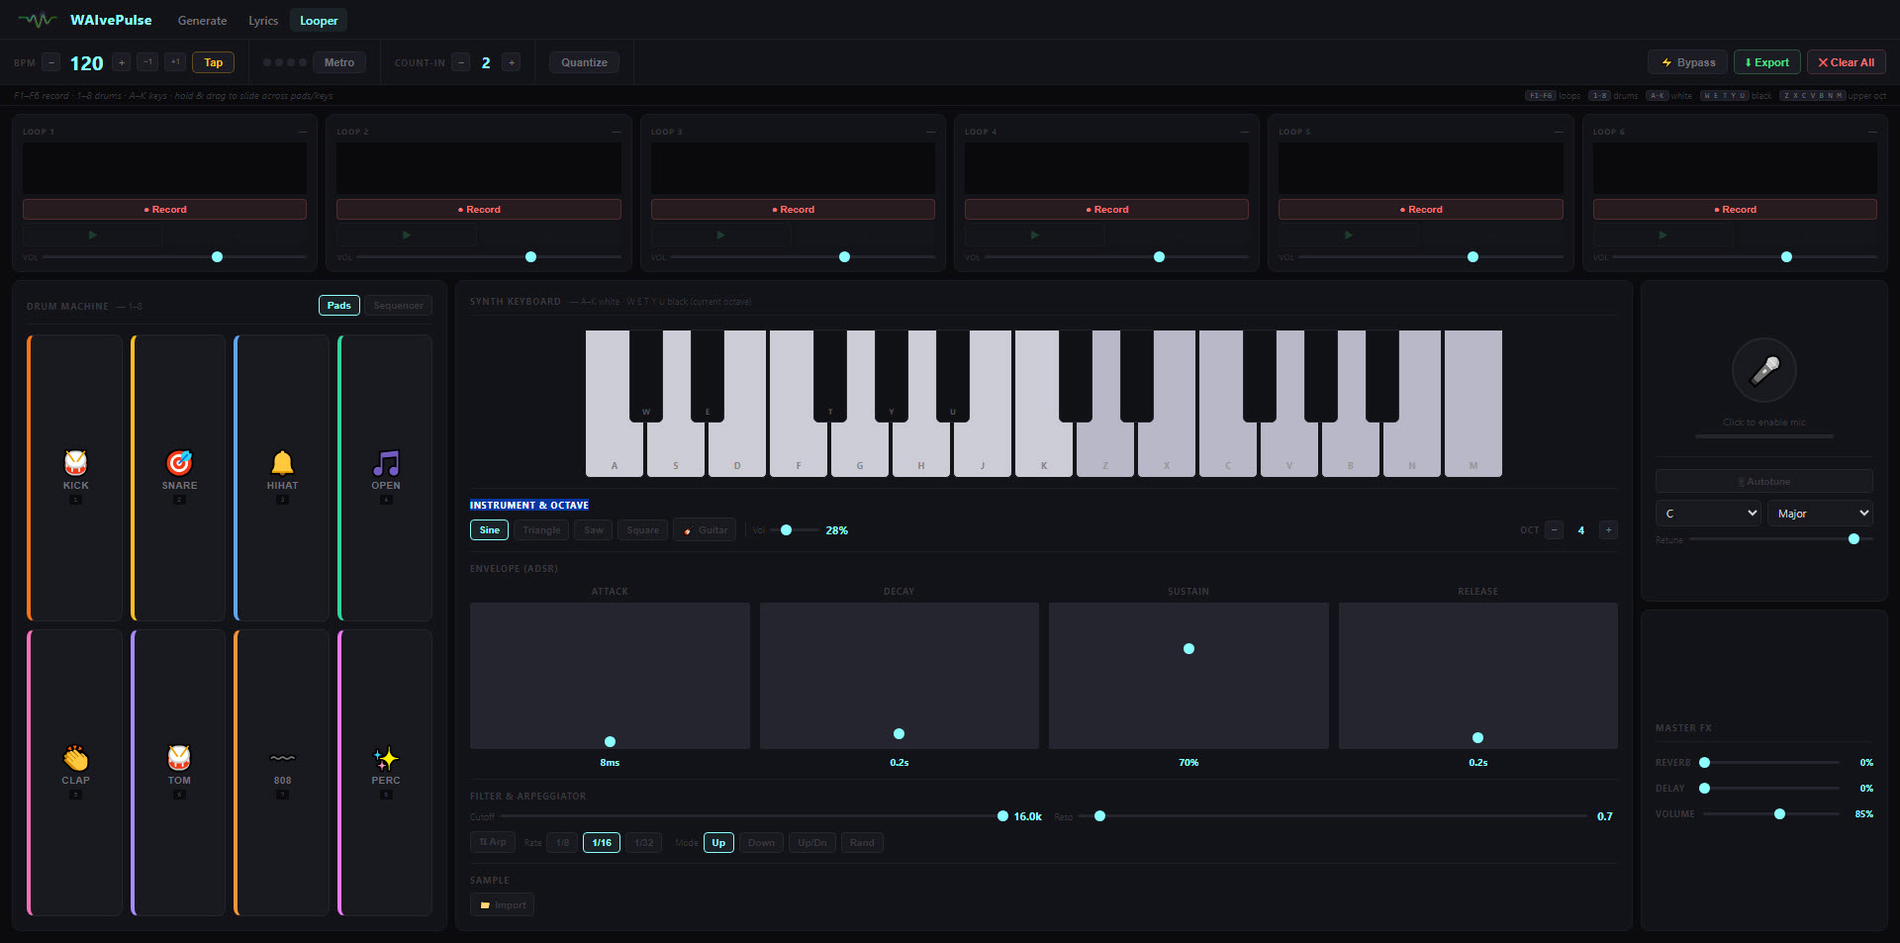
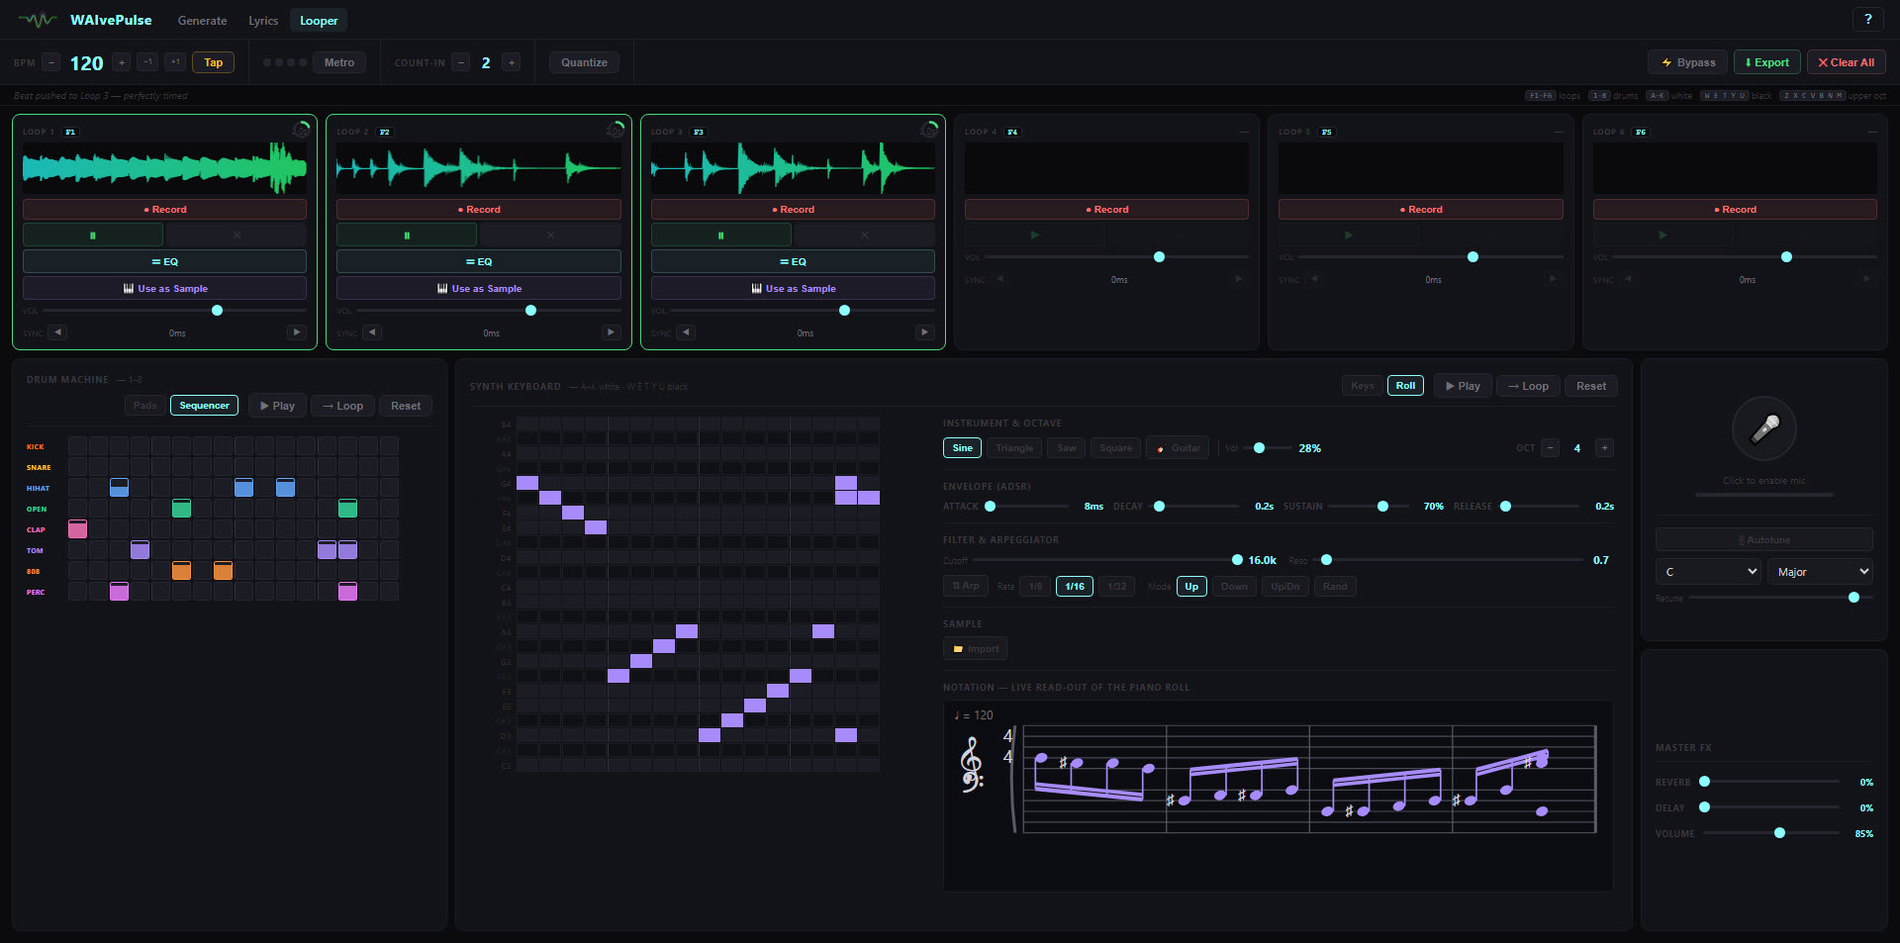
added sheetmusic bars

diff --git a/scripts/sheet_preview.html b/scripts/sheet_preview.html
@@ -1,0 +1,225 @@
+<!doctype html>
+<!--
+  Standalone verification harness for the Looper "Notation" panel.
+  Mirrors the exact rendering logic in frontend/js/looper/pianoseq.js (renderSheet)
+  so you can eyeball notation correctness on controlled examples without the server.
+  Open this file directly in a browser.  If the staff here looks right, the app will too.
+-->
+<html lang="en">
+<head>
+<meta charset="utf-8">
+<title>WAIvePulse — sheet music preview</title>
+<style>
+  body{background:#0b0b0e;color:#d2d2d8;font-family:system-ui,Segoe UI,sans-serif;margin:24px}
+  h1{font-size:15px;font-weight:700;letter-spacing:.04em}
+  .case{margin:14px 0 22px}
+  .case h2{font-size:12px;color:#a0a0aa;font-weight:600;margin:0 0 4px}
+  .sheet-wrap{background:#0c0c11;border:1px solid #1c1c24;border-radius:6px;padding:6px 8px;max-width:620px}
+  #x svg, .sheet-wrap svg{width:100%;height:auto;display:block}
+  /* copied verbatim from css/looper.css */
+  .sm-line{stroke:#4a4a58;stroke-width:1}
+  .sm-bar{stroke:#5a5a6a;stroke-width:1}
+  .sm-bar.end{stroke-width:2.5}
+  .sm-brace{stroke:#5a5a6a;stroke-width:2.5;fill:none}
+  .sm-ledger{stroke:#6a6a7a;stroke-width:1.2}
+  .sm-note{fill:#a78bfa}
+  .sm-note.open{fill:none;stroke:#a78bfa;stroke-width:1.7}
+  .sm-stem{stroke:#a78bfa;stroke-width:1.4}
+  .sm-beam{stroke:#a78bfa;stroke-width:2.8;stroke-linecap:butt}
+  .sm-beam2{stroke:#a78bfa;stroke-width:2.4;stroke-linecap:butt}
+  .sm-flag{stroke:#a78bfa;stroke-width:1.7;fill:none}
+  .sm-acc{fill:#cfd2dc;font-size:15px;font-family:"Segoe UI Symbol",serif}
+  .sm-clef{fill:#cfd2dc;font-family:"Segoe UI Symbol","Segoe UI Historic",Symbola,serif}
+  .sm-text{fill:#707078;font-size:10px}
+</style>
+</head>
+<body>
+<h1>WAIvePulse — Notation render check</h1>
+<div id="cases"></div>
+
+<script type="module">
+// ── logic mirrored from frontend/js/looper/pianoseq.js ────────────────────────
+const STEPS = 16, ROWS = 24, LOW_MIDI = 48;
+const SM = { topY: 16, hg: 4.5, leftPad: 60, colW: 30 };
+const PC_LETTER = [0, 0, 1, 1, 2, 3, 3, 4, 4, 5, 5, 6];
+const PC_SHARP  = [0, 1, 0, 1, 0, 0, 1, 0, 1, 0, 1, 0];
+const diaOf   = m => (Math.floor(m / 12) - 1) * 7 + PC_LETTER[m % 12];
+const isSharp = m => PC_SHARP[m % 12] === 1;
+const smY     = dia => SM.topY + (38 - dia) * SM.hg;
+const PR = [];
+for (let r = 0; r < ROWS; r++) PR.push({ midi: LOW_MIDI + (ROWS - 1 - r) });
+
+function pseqRuns(pat) {
+  const runs = [];
+  for (let row = 0; row < ROWS; row++) {
+    let s = 0;
+    while (s < STEPS) {
+      if (!pat[row][s]) { s++; continue; }
+      let len = 1;
+      while (s + len < STEPS && pat[row][s + len]) len++;
+      const midi = PR[row].midi;
+      runs.push({ midi, dia: diaOf(midi), sharp: isSharp(midi), start: s, len });
+      s += len;
+    }
+  }
+  return runs;
+}
+const DUR_TABLE = [
+  { n: 16, open: true,  stem: false, beams: 0, dot: false },
+  { n: 12, open: true,  stem: true,  beams: 0, dot: true  },
+  { n: 8,  open: true,  stem: true,  beams: 0, dot: false },
+  { n: 6,  open: false, stem: true,  beams: 0, dot: true  },
+  { n: 4,  open: false, stem: true,  beams: 0, dot: false },
+  { n: 3,  open: false, stem: true,  beams: 1, dot: true  },
+  { n: 2,  open: false, stem: true,  beams: 1, dot: false },
+  { n: 1,  open: false, stem: true,  beams: 2, dot: false },
+];
+function durSpec(len) {
+  let best = DUR_TABLE[0], bd = Infinity;
+  for (const d of DUR_TABLE) { const diff = Math.abs(d.n - len); if (diff < bd) { bd = diff; best = d; } }
+  return best;
+}
+
+function buildSVG(pat, bpm) {
+  const x0 = SM.leftPad, xN = SM.leftPad + SM.colW * STEPS, p = [];
+  for (const d of [30, 32, 34, 36, 38, 18, 20, 22, 24, 26])
+    p.push(`<line class="sm-line" x1="${x0}" y1="${smY(d)}" x2="${xN}" y2="${smY(d)}"/>`);
+  p.push(`<path class="sm-brace" d="M${x0 - 7} ${smY(38)} q-6 ${(smY(18) - smY(38)) / 2} 0 ${smY(18) - smY(38)}"/>`);
+  for (let b = 0; b <= 4; b++) {
+    const x = x0 + b * 4 * SM.colW;
+    p.push(`<line class="sm-bar${b === 4 ? ' end' : ''}" x1="${x}" y1="${smY(38)}" x2="${x}" y2="${smY(18)}"/>`);
+  }
+  p.push(`<text class="sm-clef" x="6" y="${smY(30) + 2}" font-size="36">𝄞</text>`);
+  p.push(`<text class="sm-clef" x="8" y="${smY(20)}" font-size="28">𝄢</text>`);
+  p.push(`<text class="sm-text" x="2" y="11">♩ = ${bpm}</text>`);
+  p.push(`<text class="sm-clef" x="${x0 - 17}" y="${smY(35)}" font-size="15">4</text>`);
+  p.push(`<text class="sm-clef" x="${x0 - 17}" y="${smY(31)}" font-size="15">4</text>`);
+
+  const STEM = 26;
+  const noteX = step => x0 + step * SM.colW + SM.colW / 2;
+  const down  = dia => dia >= 28 ? dia >= 34 : dia >= 22;
+  const runs  = pseqRuns(pat);
+
+  for (const n of runs) {
+    const d = durSpec(n.len);
+    if (d.beams >= 1 || !d.stem) continue;
+    const y = smY(n.dia), x = noteX(n.start), dn = down(n.dia), sx = x + (dn ? -5 : 5);
+    p.push(`<line class="sm-stem" x1="${sx}" y1="${y}" x2="${sx}" y2="${y + (dn ? STEM : -STEM)}"/>`);
+  }
+
+  const groups = {};
+  for (const n of runs) {
+    if (durSpec(n.len).beams < 1) continue;
+    const key = (n.dia >= 28 ? 'T' : 'B') + Math.floor(n.start / 4);
+    const g = (groups[key] = groups[key] || {});
+    (g[n.start] = g[n.start] || []).push(n);
+  }
+  for (const key in groups) {
+    const stepMap = groups[key];
+    const steps = Object.keys(stepMap).map(Number).sort((a, b) => a - b);
+    let sum = 0, cnt = 0, treb = 0;
+    for (const s of steps) for (const n of stepMap[s]) { sum += n.dia; cnt++; if (n.dia >= 28) treb++; }
+    const midLine = treb >= cnt - treb ? 34 : 22;
+    const dn = (sum / cnt) >= midLine, dir = dn ? 1 : -1;
+    const ext = {}, extY = {};
+    for (const s of steps) {
+      const dias = stepMap[s].map(n => n.dia);
+      ext[s]  = dn ? Math.min(...dias) : Math.max(...dias);
+      extY[s] = smY(ext[s]);
+    }
+    const sF = steps[0], sL = steps[steps.length - 1];
+    const xF = noteX(sF), xL = noteX(sL);
+    const MAXSL = 13;
+    let dy = extY[sL] - extY[sF];
+    if (dy >  MAXSL) dy =  MAXSL;
+    if (dy < -MAXSL) dy = -MAXSL;
+    const slope = (xL === xF) ? 0 : dy / (xL - xF);
+    let base;
+    for (const s of steps) {
+      const want = extY[s] + dir * STEM - slope * (noteX(s) - xF);
+      base = base === undefined ? want : (dir < 0 ? Math.min(base, want) : Math.max(base, want));
+    }
+    const beamY = x => base + slope * (x - xF);
+    const sxOf  = x => x + (dn ? -5 : 5);
+
+    if (steps.length === 1) {
+      const s = steps[0], x = noteX(s), ay = smY(ext[s]), by = ay + dir * STEM, sx = sxOf(x);
+      p.push(`<line class="sm-stem" x1="${sx}" y1="${ay}" x2="${sx}" y2="${by}"/>`);
+      const nb = Math.max(...stepMap[s].map(n => durSpec(n.len).beams));
+      for (let f = 0; f < nb; f++) {
+        const fy = by - dir * f * 6;
+        p.push(`<path class="sm-flag" d="M${sx} ${fy} q9 ${-dir * 4} 7 ${-dir * 13}"/>`);
+      }
+    } else {
+      for (const s of steps) {
+        const x = noteX(s), sx = sxOf(x);
+        p.push(`<line class="sm-stem" x1="${sx}" y1="${smY(ext[s])}" x2="${sx}" y2="${beamY(x)}"/>`);
+      }
+      p.push(`<line class="sm-beam" x1="${sxOf(xF)}" y1="${beamY(xF)}" x2="${sxOf(xL)}" y2="${beamY(xL)}"/>`);
+      const is16 = s => stepMap[s].some(n => durSpec(n.len).beams >= 2);
+      const off  = dn ? -4 : 4;
+      for (let i = 0; i < steps.length; i++) {
+        const s = steps[i]; if (!is16(s)) continue;
+        const x = noteX(s), sx = sxOf(x);
+        const next = steps[i + 1], prev = steps[i - 1];
+        if (next != null && is16(next)) {
+          const x2 = noteX(next);
+          p.push(`<line class="sm-beam2" x1="${sx}" y1="${beamY(x) + off}" x2="${sxOf(x2)}" y2="${beamY(x2) + off}"/>`);
+        } else if (!(prev != null && is16(prev))) {
+          const dirStub = next != null ? 1 : -1, xs = x + dirStub * 9;
+          p.push(`<line class="sm-beam2" x1="${sx}" y1="${beamY(x) + off}" x2="${sxOf(xs)}" y2="${beamY(xs) + off}"/>`);
+        }
+      }
+    }
+  }
+
+  for (const n of runs) {
+    const d = durSpec(n.len), y = smY(n.dia), x = noteX(n.start);
+    if (n.dia === 28) p.push(`<line class="sm-ledger" x1="${x - 8}" y1="${y}" x2="${x + 8}" y2="${y}"/>`);
+    if (n.sharp) p.push(`<text class="sm-acc" x="${x - 15}" y="${y + 5}">♯</text>`);
+    p.push(`<ellipse class="sm-note${d.open ? ' open' : ''}" cx="${x}" cy="${y}" rx="${d.open ? 5.4 : 5.2}" ry="3.9" transform="rotate(-20 ${x} ${y})"/>`);
+    if (d.dot) { const dy = (n.dia % 2 === 0) ? y - SM.hg : y; p.push(`<circle class="sm-note" cx="${x + 9}" cy="${dy}" r="1.6"/>`); }
+  }
+  return `<svg viewBox="0 0 548 150" preserveAspectRatio="xMidYMid meet">${p.join('')}</svg>`;
+}
+
+// ── test cases ────────────────────────────────────────────────────────────────
+const blank = () => Array.from({ length: ROWS }, () => new Array(STEPS).fill(0));
+const rowOf = midi => 71 - midi;                  // B4(71)=row0 … C3(48)=row23
+function place(pat, midi, start, len) { for (let i = 0; i < len; i++) pat[rowOf(midi)][start + i] = 1; }
+const N = { C4: 60, D4: 62, E4: 64, F4: 65, G4: 67, A4: 69, B4: 71, Cs4: 61, Fs4: 66,
+            C3: 48, D3: 50, E3: 52, F3: 53, G3: 55, A3: 57, B3: 59 };
+
+const cases = [
+  ['C-major scale, eighth notes (beams should slope UP)', p => {
+    [N.C4, N.D4, N.E4, N.F4, N.G4, N.A4, N.B4, N.A4].forEach((m, i) => place(p, m, i * 2, 2));
+  }],
+  ['Descending run, eighth notes (beams should slope DOWN)', p => {
+    [N.A4, N.G4, N.F4, N.E4, N.D4, N.C4, N.B3, N.A3].forEach((m, i) => place(p, m, i * 2, 2));
+  }],
+  ['Sixteenth run in beat 1, then a half note + two quarters', p => {
+    [N.C4, N.D4, N.E4, N.F4].forEach((m, i) => place(p, m, i, 1));   // four 16ths, double beam
+    place(p, N.G4, 4, 8);                                            // half note (hollow)
+    place(p, N.E4, 12, 2); place(p, N.F4, 14, 2);                    // beamed pair
+  }],
+  ['Durations: whole / dotted-half(?) — whole note fills the bar', p => {
+    place(p, N.C4, 0, 16);                                          // whole note, hollow, no stem
+  }],
+  ['Chord + sharp + bass clef notes', p => {
+    place(p, N.C4, 0, 4); place(p, N.E4, 0, 4); place(p, N.G4, 0, 4);  // C-major triad, quarters
+    place(p, N.Fs4, 4, 4);                                             // F#4 quarter (sharp)
+    place(p, N.C3, 8, 8);                                              // bass half note
+    place(p, N.G3, 8, 4);                                             // bass quarter
+  }],
+];
+
+const root = document.getElementById('cases');
+for (const [label, fill] of cases) {
+  const pat = blank(); fill(pat);
+  const div = document.createElement('div'); div.className = 'case';
+  div.innerHTML = `<h2>${label}</h2><div class="sheet-wrap">${buildSVG(pat, 120)}</div>`;
+  root.appendChild(div);
+}
+</script>
+</body>
+</html>

diff --git a/frontend/js/looper/pianoseq.js b/frontend/js/looper/pianoseq.js
@@ -86,8 +86,8 @@ export function renderSheet() {
   }
 
   // clefs (Segoe UI Symbol covers the Musical Symbols block on Windows), tempo, 4/4
-  p.push(`<text class="sm-clef" x="6" y="${smY(30) + 2}" font-size="36">𝄞</text>`);   // 𝄞
-  p.push(`<text class="sm-clef" x="8" y="${smY(25)}" font-size="27">𝄢</text>`);        // 𝄢
+  p.push(`<text class="sm-clef" x="6" y="${smY(30) + 2}" font-size="36">𝄞</text>`);   // 𝄞 treble
+  p.push(`<text class="sm-clef" x="8" y="${smY(20)}" font-size="28">𝄢</text>`);        // 𝄢 bass (seated on the bass staff)
   p.push(`<text class="sm-text" x="2" y="11">♩ = ${S.bpm}</text>`);
   p.push(`<text class="sm-clef" x="${x0 - 17}" y="${smY(35)}" font-size="15">4</text>`);
   p.push(`<text class="sm-clef" x="${x0 - 17}" y="${smY(31)}" font-size="15">4</text>`);
@@ -98,7 +98,8 @@ export function renderSheet() {
   // ── notes ──────────────────────────────────────────────────────────────────
   const STEM = 26;                                   // stem length (px)
   const noteX = step => x0 + step * SM.colW + SM.colW / 2;
-  const down  = dia => dia >= 28;                    // ≥ middle C → stem down, else up
+  // stem points away from the staff's middle line: treble mid = B4 (34), bass = D3 (22)
+  const down  = dia => dia >= 28 ? dia >= 34 : dia >= 22;
   const runs  = pseqRuns();
 
   // Stems first, then beams/flags, then noteheads on top — so heads aren't covered.
@@ -110,35 +111,46 @@ export function renderSheet() {
     p.push(`<line class="sm-stem" x1="${sx}" y1="${y}" x2="${sx}" y2="${y + (dn ? STEM : -STEM)}"/>`);
   }
 
-  // (2) beam groups: flagged notes (8th/16th) grouped by the beat of their onset
-  const beats = {};
+  // (2) beam groups: flagged notes (8th/16th) grouped by beat AND staff, so the
+  // treble and bass parts beam as independent voices (no cross-staff beams)
+  const groups = {};
   for (const n of runs) {
     if (durSpec(n.len).beams < 1) continue;
-    const beat = Math.floor(n.start / 4);
-    ((beats[beat] = beats[beat] || {})[n.start] = beats[beat][n.start] || []).push(n);
+    const key = (n.dia >= 28 ? 'T' : 'B') + Math.floor(n.start / 4);
+    const g = (groups[key] = groups[key] || {});
+    (g[n.start] = g[n.start] || []).push(n);
   }
-  for (const beat in beats) {
-    const stepMap = beats[beat];
+  for (const key in groups) {
+    const stepMap = groups[key];
     const steps = Object.keys(stepMap).map(Number).sort((a, b) => a - b);
-    // direction by the group's average pitch
-    let sum = 0, cnt = 0;
-    for (const s of steps) for (const n of stepMap[s]) { sum += n.dia; cnt++; }
-    const dn = (sum / cnt) >= 28, dir = dn ? 1 : -1;
-    // extreme notehead per onset (stem attaches there) + its pre-slope stem end
-    const ext = {}, endY = {};
+    // direction: away from the middle line of whichever staff the group mostly sits in
+    let sum = 0, cnt = 0, treb = 0;
+    for (const s of steps) for (const n of stepMap[s]) { sum += n.dia; cnt++; if (n.dia >= 28) treb++; }
+    const midLine = treb >= cnt - treb ? 34 : 22;     // treble B4 / bass D3
+    const dn = (sum / cnt) >= midLine, dir = dn ? 1 : -1;
+    // nearest notehead to the beam, per onset (this is where each stem attaches)
+    const ext = {}, extY = {};
     for (const s of steps) {
       const dias = stepMap[s].map(n => n.dia);
       ext[s]  = dn ? Math.min(...dias) : Math.max(...dias);
-      endY[s] = smY(ext[s]) + dir * STEM;
+      extY[s] = smY(ext[s]);
     }
     const sF = steps[0], sL = steps[steps.length - 1];
     const xF = noteX(sF), xL = noteX(sL);
-    let yF = endY[sF], yL = endY[sL];
-    // slope follows the run's contour (up/down a scale), gently clamped
-    const MAXSL = 16;
-    if (yL - yF >  MAXSL) yL = yF + MAXSL;
-    if (yL - yF < -MAXSL) yL = yF - MAXSL;
-    const beamY = x => (xL === xF) ? yF : yF + (yL - yF) * (x - xF) / (xL - xF);
+    // gentle slope following the contour of the nearest noteheads, clamped
+    const MAXSL = 13;
+    let dy = extY[sL] - extY[sF];
+    if (dy >  MAXSL) dy =  MAXSL;
+    if (dy < -MAXSL) dy = -MAXSL;
+    const slope = (xL === xF) ? 0 : dy / (xL - xF);
+    // seat the beam exactly STEM away from the closest note (so every stem ≥ STEM,
+    // and the beam hugs the notes instead of floating off the endpoints)
+    let base;
+    for (const s of steps) {
+      const want = extY[s] + dir * STEM - slope * (noteX(s) - xF);
+      base = base === undefined ? want : (dir < 0 ? Math.min(base, want) : Math.max(base, want));
+    }
+    const beamY = x => base + slope * (x - xF);
     const sxOf  = x => x + (dn ? -5 : 5);
 
     if (steps.length === 1) {
@@ -147,8 +159,8 @@ export function renderSheet() {
       p.push(`<line class="sm-stem" x1="${sx}" y1="${ay}" x2="${sx}" y2="${by}"/>`);
       const nb = Math.max(...stepMap[s].map(n => durSpec(n.len).beams));
       for (let f = 0; f < nb; f++) {
-        const fy = by - dir * f * 6;
-        p.push(`<path class="sm-flag" d="M${sx} ${fy} q9 ${dir * 4} 7 ${dir * 13}"/>`);
+        const fy = by - dir * f * 6;                  // successive flags stack toward the head
+        p.push(`<path class="sm-flag" d="M${sx} ${fy} q9 ${-dir * 4} 7 ${-dir * 13}"/>`);  // curls back to the head
       }
     } else {
       // stems to the beam line

diff --git a/frontend/css/looper.css b/frontend/css/looper.css
@@ -257,8 +257,8 @@ input[type=range].vslider::-webkit-slider-thumb{-webkit-appearance:none;width:11
 .sm-note{fill:var(--purple)}
 .sm-note.open{fill:none;stroke:var(--purple);stroke-width:1.7}
 .sm-stem{stroke:var(--purple);stroke-width:1.4}
-.sm-beam{stroke:var(--purple);stroke-width:3.4;stroke-linecap:butt}
-.sm-beam2{stroke:var(--purple);stroke-width:3;stroke-linecap:butt}
+.sm-beam{stroke:var(--purple);stroke-width:2.8;stroke-linecap:butt}
+.sm-beam2{stroke:var(--purple);stroke-width:2.4;stroke-linecap:butt}
 .sm-flag{stroke:var(--purple);stroke-width:1.7;fill:none}
 .sm-acc{fill:#cfd2dc;font-size:15px;font-family:"Segoe UI Symbol","Segoe UI Symbol",serif}
 .sm-clef{fill:#cfd2dc;font-family:"Segoe UI Symbol","Segoe UI Historic",Symbola,serif}

diff --git a/frontend/looper.html b/frontend/looper.html
@@ -5,7 +5,7 @@
 <meta name="viewport" content="width=device-width,initial-scale=1">
 <title>WAIvePulse Looper</title>
 <link rel="icon" type="image/png" href="/assets/wave small.png">
-<link rel="stylesheet" href="/css/looper.css?v=11">
+<link rel="stylesheet" href="/css/looper.css?v=12">
 </head>
 <body>
 

diff --git a/landing/index.php b/landing/index.php
@@ -44,8 +44,8 @@ $features = [
     'img'   => 'img/looper.jpg',
     'kicker'=> 'Ed Sheeran in a tab',
     'title' => 'Build a track, layer by layer.',
-    'body'  => 'A full loop station: synthesized drums with a 16-step sequencer, a two-octave synth with filter, arpeggiator and ADSR, a polyphonic piano roll for chords, a plucked-guitar voice, a sampler, and a mic with autotune — stacked into six loops. Overdubs are auto-quantized, so every layer lands on the beat.',
-    'points'=> ['Six layers with quantized overdub', 'Drum sequencer + polyphonic piano roll → push to a loop', 'Two-octave synth: filter · arp · guitar · sampler', 'Per-loop 7-band parametric EQ + mic autotune', 'Tap tempo, count-in, per-loop nudge'],
+    'body'  => 'A full loop station: synthesized drums with a 16-step sequencer, a two-octave synth with filter, arpeggiator and ADSR, a polyphonic piano roll for chords, a plucked-guitar voice, a sampler, and a mic with autotune — stacked into six loops. Fill cells to make held notes and read them back on a live sheet-music staff. Overdubs are auto-quantized, so every layer lands on the beat.',
+    'points'=> ['Six layers with quantized overdub', 'Piano roll with held notes → live sheet-music notation', 'Drum sequencer + polyphonic piano roll → push to a loop', 'Two-octave synth: filter · arp · guitar · sampler', 'Per-loop 7-band parametric EQ + mic autotune'],
   ],
   [
     'tag'   => 'Karaoke',

diff --git a/README.md b/README.md
@@ -76,7 +76,7 @@ Open the Looper page at any time — it works independently of the AI generation
 
 - **Drum machine:** 8 pads (Kick, Snare, Hi-Hat, Open HH, Clap, Tom, 808, Perc) synthesized via Web Audio — keys `1`–`8` — plus a **16-step sequencer** with per-step velocity, and a **→ Loop** button that renders a beat straight into a slot with perfect timing
 - **Synth keyboard:** two octaves (C4–C6, keys `A`–`K` / `W E T Y U` / `Z X C V B N M`). Oscillator waveforms, a plucked **guitar** voice, a resonant **low-pass filter** (cutoff + reso), and an **arpeggiator** (rate + up/down/random)
-- **Polyphonic piano roll:** a Keys/Roll toggle swaps the keyboard for a chord-capable step sequencer that renders straight to a loop in perfect time, sharing one transport grid with the drum sequencer
+- **Polyphonic piano roll:** a Keys/Roll toggle swaps the keyboard for a chord-capable step sequencer that renders straight to a loop in perfect time, sharing one transport grid with the drum sequencer. Fill adjacent cells to make **held notes** (16th → whole), and watch them appear on a **live grand-staff notation panel** with real durations and contour-slanted beams
 - **Click-and-drag slide:** hold the mouse and drag across pads or keys for a glissando / drum-roll effect
 - **Full ADSR envelope:** Attack, Decay, Sustain, and Release shape every synth voice (vertical sliders)
 - **Sampler:** import any audio file (or a recorded loop) and pitch it chromatically across the keyboard
@@ -684,11 +684,23 @@ Once loaded, the sample name appears next to the `🎹 Sample` toggle. Click the
 The **Keys / Roll** toggle in the keyboard header swaps the piano for a **polyphonic step sequencer** — a two-octave (C3–B4) pitch × 16-step grid.
 
 - Click a cell to place or remove a note; **stack cells in a column for chords**
+- **Fill adjacent cells in a row to make one held note** of that length — 1 cell = 16th, 2 = 8th, 3 = dotted-8th, 4 = quarter, 6 = dotted-quarter, 8 = half, 12 = dotted-half, 16 = whole. Held notes sustain on playback (one voice per note) instead of re-triggering each step
 - It plays through the **current instrument** — waveform / guitar / sample, with the ADSR and filter applied — so it sounds like whatever you've dialled in
 - **▶ Play** runs the pattern locked to BPM (scrolling playhead); **Reset** clears it
 - **→ Loop** renders the roll straight into the next empty loop slot through an OfflineAudioContext — mathematically perfect timing, with the decay tails wrapped around the loop point for a seamless join
+- Switching to Roll lays the card out in **two columns** — the grid takes the full height on the left (no scrolling for all 24 rows), the voice controls move to the right
 
 The drum sequencer and the piano roll share one transport grid: start one while the other is playing and they lock to the same downbeat.
+
+#### Notation (live sheet music)
+
+Below the voice controls in Roll mode, a **Notation** panel renders the piano roll as a real **grand staff** — a readable score that updates as you place notes:
+
+- **Treble staff** for C4–B4 over a **bass staff** for C3–B3, with **middle C on its own ledger line** between them — every note sits on its true line or space
+- **Real durations** drawn from the held-note lengths above: filled vs. hollow noteheads, stems, augmentation dots
+- **Contour-slanted beams** group eighths/sixteenths within a beat (single beam = 8ths, double = 16ths); the beam tilts up for a rising run and down for a falling one, and an isolated short note keeps a flag
+- A **♩ = tempo** marking, **4/4** time signature, and treble/bass clefs
+- A **playback cursor** sweeps across the staff in time with ▶ Play
 
 #### Microphone
 
